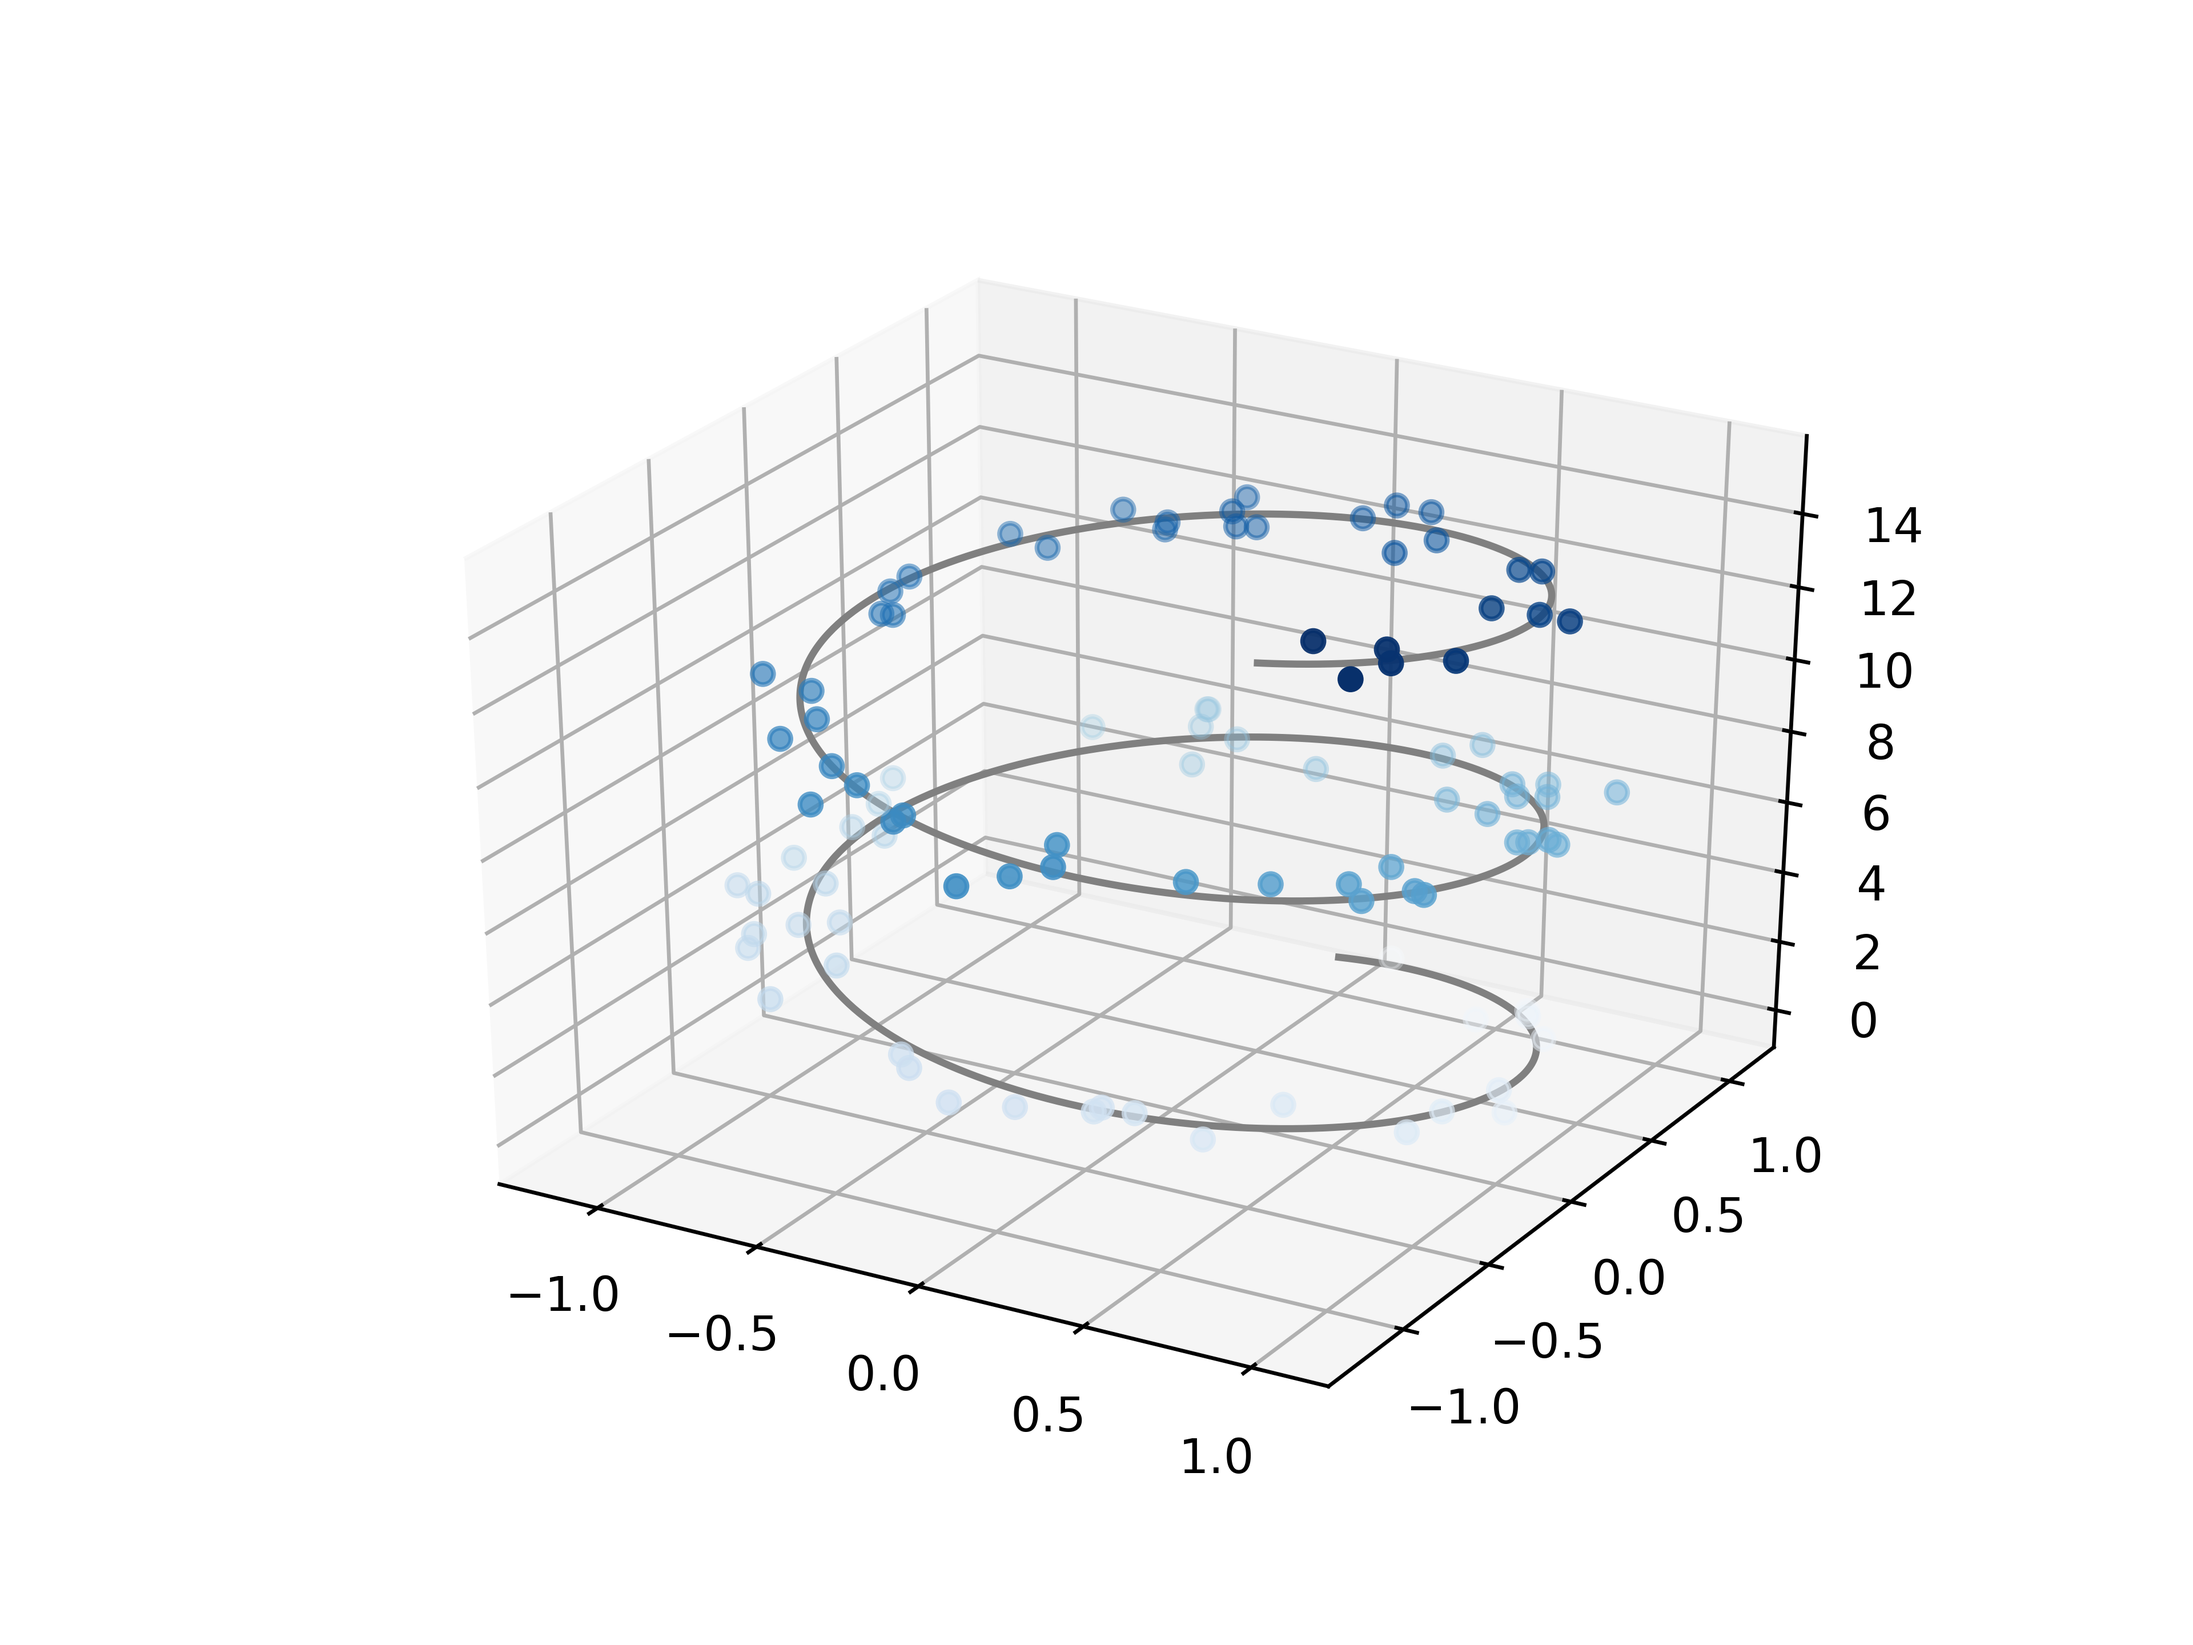
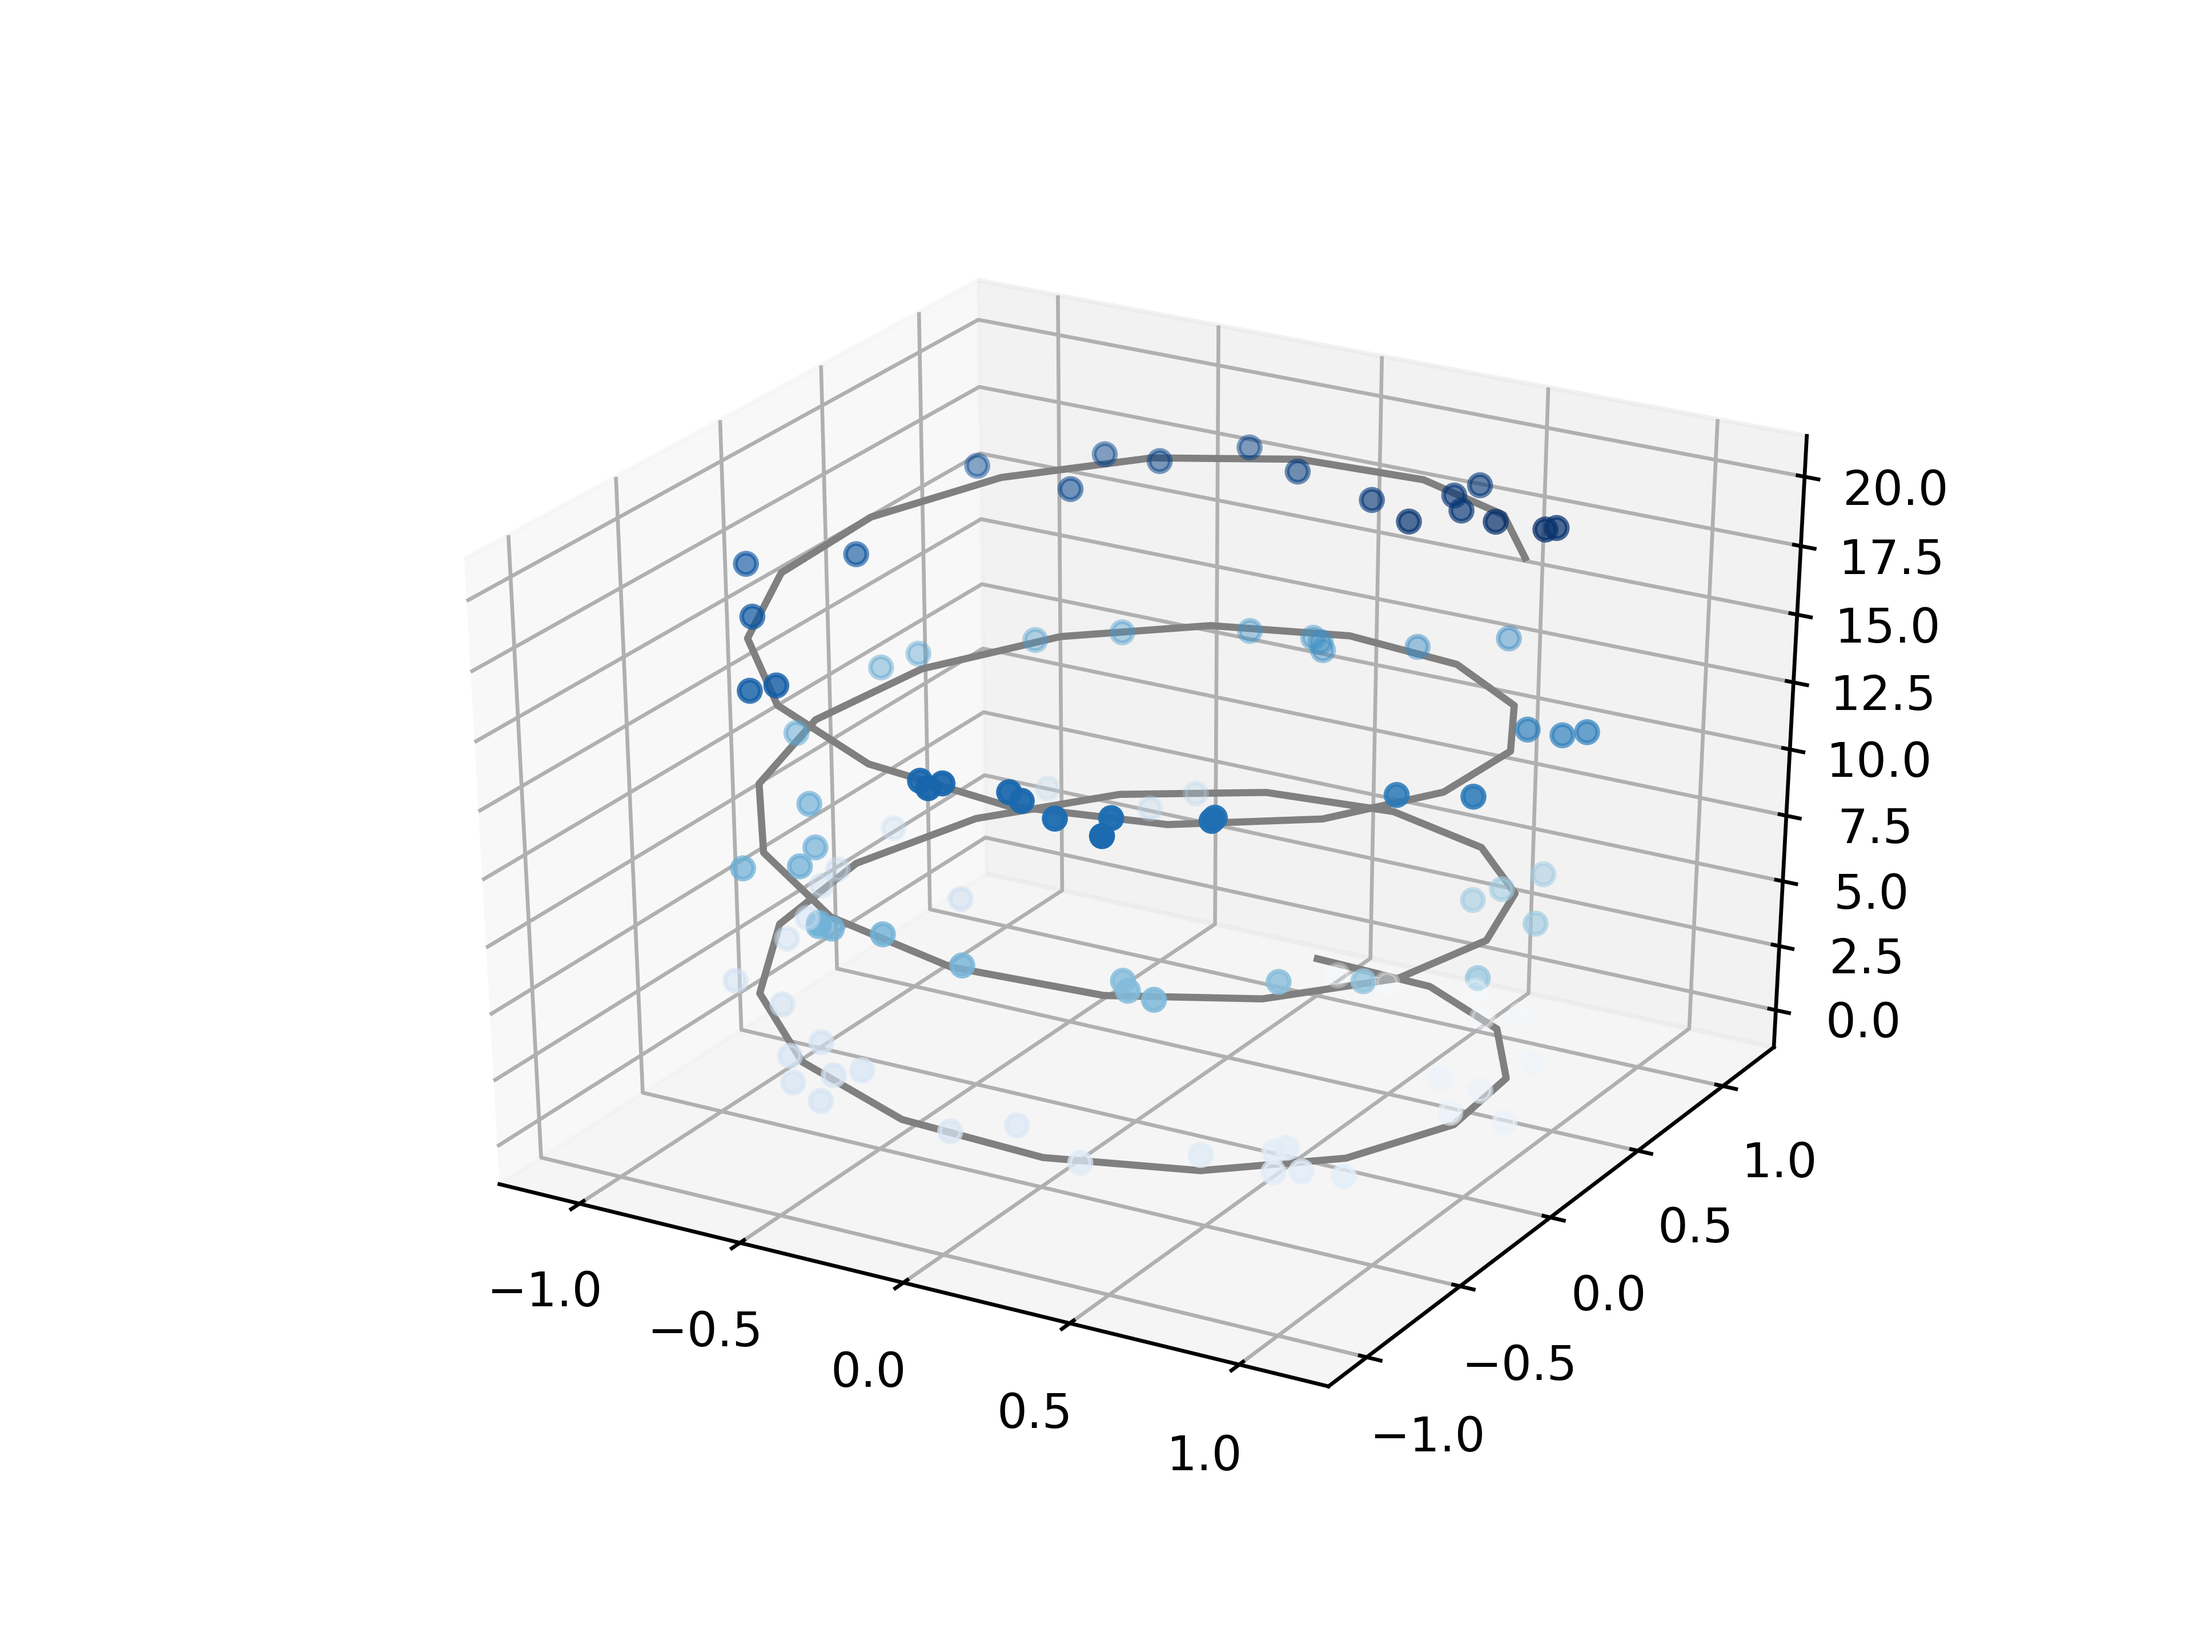
Updated Spiral_Generator.py

diff --git a/utils/spiral_generator.py b/utils/spiral_generator.py
@@ -1,4 +1,6 @@
 
+import torch
+
 import numpy as np
 import matplotlib.pyplot as plt
 
@@ -6,17 +8,25 @@ from mpl_toolkits import mplot3d
 
 class Regular_Spiral_Generator():
 
-    def __init__(self):
+    def __init__(self, n_pts, cutoff):
+
+        # z doubles as time
 
         # Data for a three-dimensional line
-        self.z = np.linspace(0, 15, 1000)
-        self.x = np.sin(self.z)
-        self.y = np.cos(self.z)
+        self.z = torch.linspace(0, 20, n_pts)
+        self.x = torch.sin(self.z)
+        self.y = torch.cos(self.z)
 
         # Data for three-dimensional irregular time sampled observations
-        self.z_obs = 15 * np.random.random(100)
-        self.x_obs = np.sin(self.z_obs) + 0.1 * np.random.randn(100)
-        self.y_obs = np.cos(self.z_obs) + 0.1 * np.random.randn(100)
+        self.z_obs = 20 * torch.rand(100)
+        self.x_obs = torch.sin(self.z_obs) + 0.1 * np.random.randn(100)
+        self.y_obs = torch.cos(self.z_obs) + 0.1 * np.random.randn(100)
+
+        self.t = self.z
+        self.d = torch.cat((self.x, self.y), axis=0)
+
+        self.train = self.d[:cutoff]
+        self.validation = self.d[cutoff:]
 
     def plot(self):
 

diff --git a/fig6.py b/fig6.py
@@ -16,8 +16,8 @@ from utils.spiral_generator import Regular_Spiral_Generator
 device_params = {"Vdd": 0.2,
                  "r_wl": 20,
                  "r_bl": 20,
-                 "m": 128,
-                 "n": 128,
+                 "m": 32,
+                 "n": 32,
                  "r_on_mean": 1e4,
                  "r_on_stddev": 1e3,
                  "r_off_mean": 1e5,
@@ -35,7 +35,7 @@ device_params = {"Vdd": 0.2,
             }
 
 # Get regular spiral data with irregularly sampled time intervals (+ noise)
-data_gen = Regular_Spiral_Generator()
+data_gen = Regular_Spiral_Generator(50, 150)
 ground_truth = data_gen.get_plot()
 plt.savefig('./output/ground_truth.png', dpi=600, transparent=True)
 

diff --git a/networks/ode.py b/networks/ode.py
@@ -5,9 +5,7 @@ import torch.nn as nn
 from utils.linear import Linear
 from crossbar.crossbar import crossbar
 
-class LSTM_RNN(nn.Module):
+class ODE_Func(nn.Module):
 
     def __init__(self, params):
-
-        super(LSTM_RNN, self).__init__()
-
+        super(ODE_Func, self).__init__()
